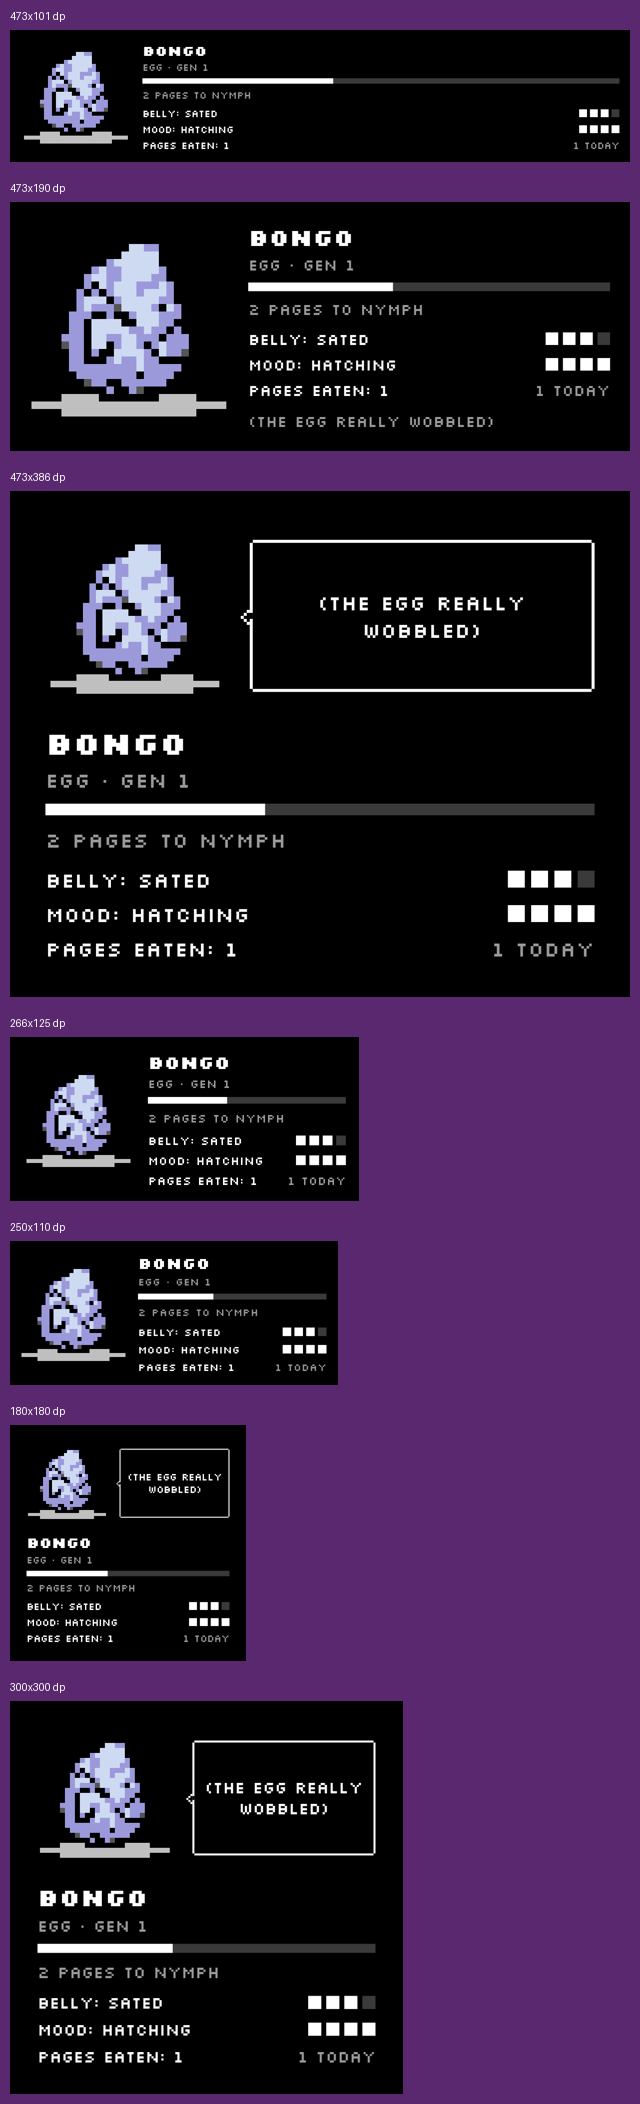
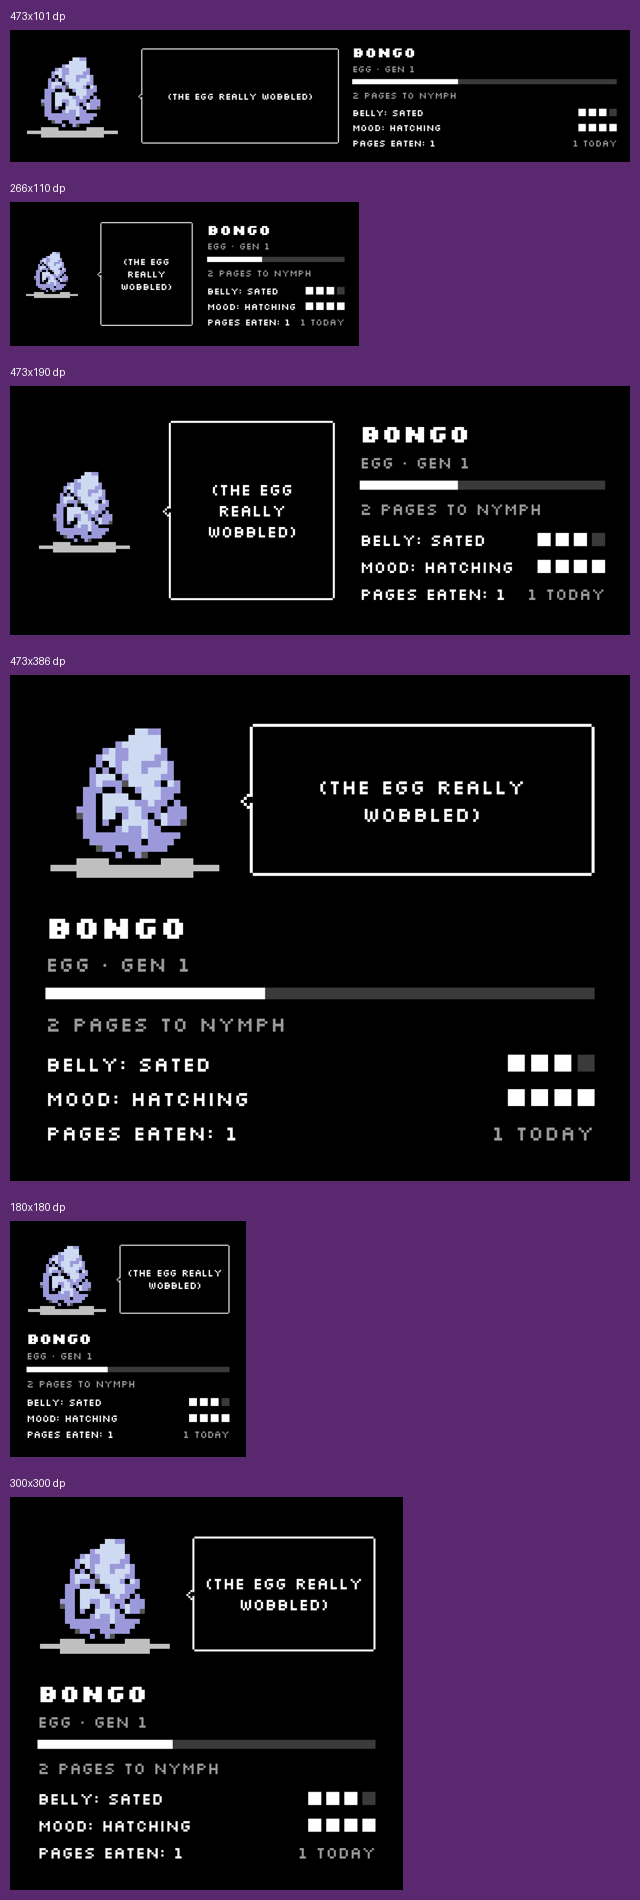
Short wide widgets: the thought in a bubble beside the pet
Widgets more than about 2.2 times as wide as tall get three columns: a
smaller pet, its thought in a speech bubble right beside it (tail
pointing at the pet, as on Silverfish's home card), and the stats on the
right. Before, the thought was dropped at these sizes and the middle was
empty. The size sheet now shows every layout.

diff --git a/app/src/main/java/local/silverfishwidget/Render.kt b/app/src/main/java/local/silverfishwidget/Render.kt
@@ -59,8 +59,39 @@ object Render {
     fun pet(ctx: Context, w: Int, h: Int, pet: Pet, now: Long): Bitmap {
         val bmp = Bitmap.createBitmap(w, h, Bitmap.Config.ARGB_8888)
         val c = Canvas(bmp)
-        if (w >= h * 1.3f) wide(ctx, c, w, h, pet, now) else stacked(ctx, c, w, h, pet, now)
+        when {
+            w >= h * 2.2f -> short(ctx, c, w, h, pet, now)
+            w >= h * 1.3f -> wide(ctx, c, w, h, pet, now)
+            else -> stacked(ctx, c, w, h, pet, now)
+        }
         return bmp
+    }
+
+    /**
+     * Short and wide (a row or so tall): three columns. A smaller pet on the left with its thought in
+     * a speech bubble right beside it, as on Silverfish's home card, and the text block on the right.
+     */
+    private fun short(ctx: Context, c: Canvas, w: Int, h: Int, pet: Pet, now: Long) {
+        val pad = h * 0.1f
+        val availH = h - 2 * pad
+        val side = min(availH, w * 0.16f)
+        pet.sprite(now)?.let { drawSprite(c, it, pad, (h - side) / 2, side) }
+        val x = pad + side + pad
+        val rest = w - x - pad
+        val thought = pet.thought
+        val cw = if (thought != null) rest * 0.55f else rest
+        val block = fitBlock(ctx, pet, now, cw, availH, null, 0)
+        val statsX = w - pad - cw
+        block.draw(c, statsX, (h - block.height) / 2)
+        if (thought != null) {
+            val tail = block.size * 0.6f
+            val bx = x + tail
+            val bw = statsX - pad - bx
+            if (bw > block.size * 6) {
+                val bh = availH * 0.9f
+                bubble(c, bx, (h - bh) / 2, bw, bh, paint(ctx, block.size, WHITE), thought)
+            }
+        }
     }
 
     /** Smallest text size worth showing; below this a block drops its thought (or the bubble goes). */

diff --git a/app/src/debug/java/local/silverfishwidget/RenderProbe.kt b/app/src/debug/java/local/silverfishwidget/RenderProbe.kt
@@ -22,7 +22,7 @@ class RenderProbe : BroadcastReceiver() {
                 val pet = Pet.parse(folder?.let { Folder.readState(ctx, it) }) ?: return@Thread
                 val d = ctx.resources.displayMetrics.density
                 val now = System.currentTimeMillis() / 1000
-                for ((wDp, hDp) in listOf(473 to 101, 473 to 190, 473 to 386, 266 to 125, 250 to 110, 180 to 180, 300 to 300)) {
+                for ((wDp, hDp) in listOf(473 to 101, 266 to 110, 473 to 190, 473 to 386, 180 to 180, 300 to 300)) {
                     val w = (wDp * d).toInt(); val h = (hDp * d).toInt()
                     val out = Bitmap.createBitmap(w, h, Bitmap.Config.ARGB_8888)
                     Canvas(out).apply { drawColor(Color.BLACK); drawBitmap(Render.pet(ctx, w, h, pet, now), 0f, 0f, null) }
